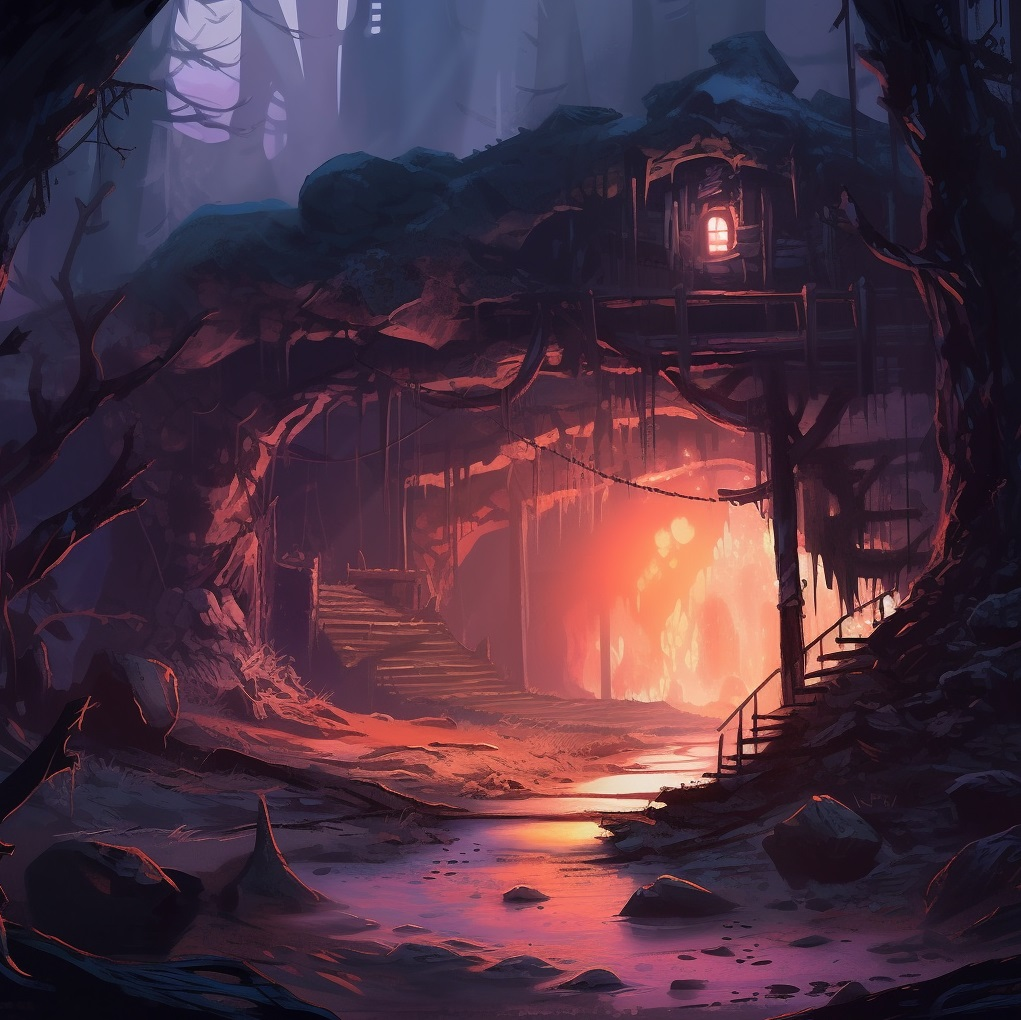
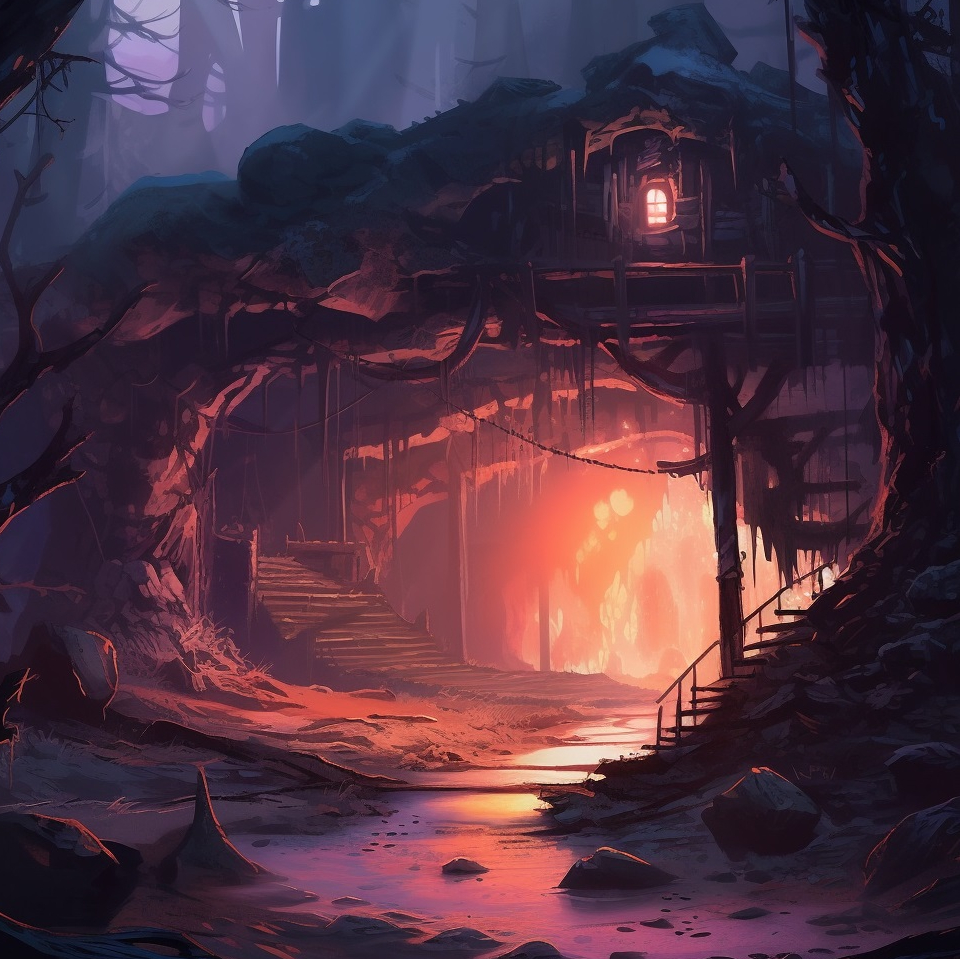
New quest images + frame with glow

diff --git a/src/components/LoadingScreen.tsx b/src/components/LoadingScreen.tsx
@@ -1,9 +1,11 @@
-import { Box, Flex } from '@chakra-ui/react';
+import { Box, Flex, Text } from '@chakra-ui/react';
 import { useEffect, useState } from 'react';
 import useImagePreloader from '../services/preload';
 import Unlocker from '../assets/videos/unlocker.webm';
 import { getLayoutBackground, getFrame, getFaucetImage } from '../services/assets';
 import { getQuestImage } from '../services/quests';
+import { isAfter } from 'date-fns';
+import { START_OF_CONTEST } from '../blockchain/config';
 
 function LoadingScreen({ setIsLoaded }) {
     const [isReady, setIsReady] = useState(false);
@@ -40,28 +42,36 @@ function LoadingScreen({ setIsLoaded }) {
 
     return (
         <Flex position="fixed" top={0} right={0} bottom={0} left={0} zIndex={5} pointerEvents="none" userSelect="none">
-            <Flex justifyContent="center" position="absolute" top={0} right={0} bottom={0} left={0} zIndex={6}>
-                <video style={{ height: '100%' }} autoPlay={true} muted={true} onEnded={onVideoEnd}>
-                    <source src={Unlocker} type="video/webm" />
-                </video>
-            </Flex>
+            {isAfter(new Date(), START_OF_CONTEST) ? (
+                <Flex>
+                    <Text>Waiting for the contest to start</Text>
+                </Flex>
+            ) : (
+                <>
+                    <Flex justifyContent="center" position="absolute" top={0} right={0} bottom={0} left={0} zIndex={6}>
+                        <video style={{ height: '100%' }} autoPlay={true} muted={true} onEnded={onVideoEnd}>
+                            <source src={Unlocker} type="video/webm" />
+                        </video>
+                    </Flex>
 
-            <Box
-                width="50%"
-                height="100vh"
-                opacity={1}
-                transition="all 0.5s ease-in-out"
-                backgroundColor="dark"
-                style={isReady ? { transform: `translateX(-${getTranslateDistance()}px)`, opacity: 0.25 } : {}}
-            ></Box>
-            <Box
-                width="50%"
-                height="100vh"
-                opacity={1}
-                transition="all 0.5s ease-in-out"
-                backgroundColor="dark"
-                style={isReady ? { transform: `translateX(${getTranslateDistance()}px)`, opacity: 0.25 } : {}}
-            ></Box>
+                    <Box
+                        width="50%"
+                        height="100vh"
+                        opacity={1}
+                        transition="all 0.5s ease-in-out"
+                        backgroundColor="dark"
+                        style={isReady ? { transform: `translateX(-${getTranslateDistance()}px)`, opacity: 0.25 } : {}}
+                    ></Box>
+                    <Box
+                        width="50%"
+                        height="100vh"
+                        opacity={1}
+                        transition="all 0.5s ease-in-out"
+                        backgroundColor="dark"
+                        style={isReady ? { transform: `translateX(${getTranslateDistance()}px)`, opacity: 0.25 } : {}}
+                    ></Box>
+                </>
+            )}
         </Flex>
     );
 }

diff --git a/src/services/assets.tsx b/src/services/assets.tsx
@@ -6,8 +6,9 @@ import Elder_4 from '../assets/backgrounds/Elder_4.png';
 import Elder_5 from '../assets/backgrounds/Elder_5.png';
 import Frame from '../assets/frame.png';
 import Frame_2 from '../assets/frame_2.png';
+import Frame_3 from '../assets/frame_3.png';
 import Praying from '../assets/images/energy.jpg';
 
 export const getLayoutBackground = () => Elder_5;
-export const getFrame = () => Frame_2;
+export const getFrame = () => Frame_3;
 export const getFaucetImage = () => Praying;

diff --git a/src/components/Unlock.tsx b/src/components/Unlock.tsx
@@ -36,6 +36,7 @@ const Unlock = () => {
     const navigate = useNavigate();
 
     useEffect(() => {
+        console.log('[Unlock.tsx] isLoggedIn', isLoggedIn, 'address', address);
         if (isLoggedIn && address) {
             checkAuthentication();
         }
